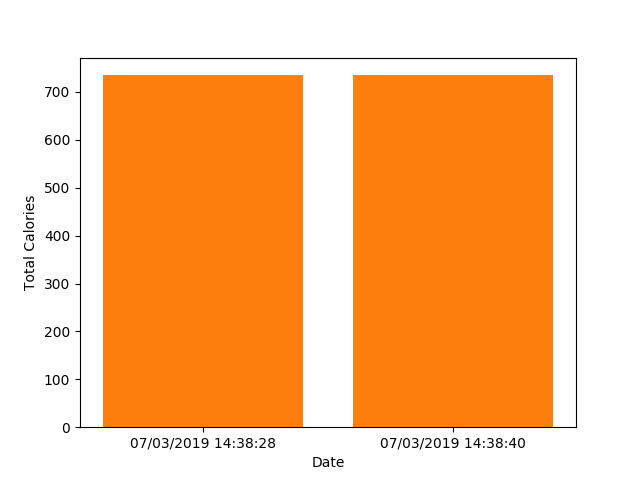
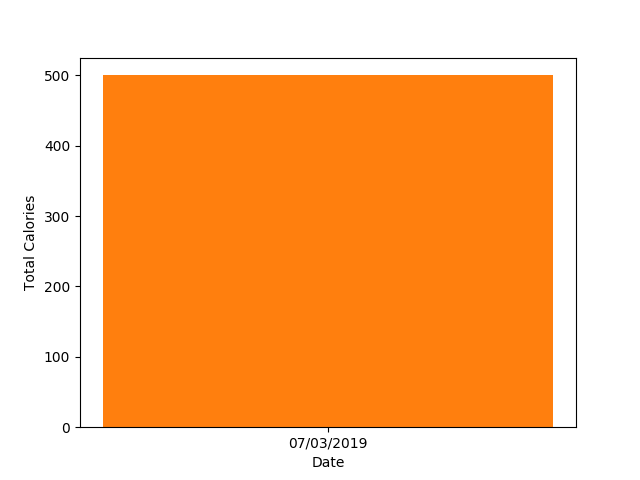
7/3/19 second commit of day, styled about, home, profile, and create profile

diff --git a/MEALBURNER/templates/mealburner_app/create_profile.html b/MEALBURNER/templates/mealburner_app/create_profile.html
@@ -12,7 +12,7 @@
             <br>
             <div class="form-group">
                 <label for="name">Username</label>
-                <input name="username" type="text" class="name_form form-control">
+                <input name="username" type="text" class="name_form form-control" placeholder='Ex: Jschmidt'>
             </div>
             <div class="form-group">
                 <label for="">First Name</label>
@@ -24,11 +24,11 @@
             </div>
             <div class="form-group">
                 <label for="">Weight</label>
-                <input name="weight" type="number" step="0.01" class="price_form form-control">
+                <input name="weight" type="number" step="0.01" class="price_form form-control" placeholder='Ex: 150'>
             </div>
             <div class='form-group'>
                 <label for=''>Height</label> 
-                <input name='height' type='number' step='0.01' class="price_form form-control">
+                <input name='height' type='number' step='0.01' class="price_form form-control" placeholder='Ex: 511'>
             </div>
             <div class="form-group">
                 <label for="">Age</label>
@@ -36,19 +36,19 @@
             </div>
             <div class="form-group">
                 <label for="">Activity Level</label>
-                <input name="activity_level" type="text" class='class_form form-control'>
+                <input name="activity_level" type="text" class='class_form form-control' placeholder='Ex: High'>
             </div>
             <div class='form-group'>
                 <label for="">Calorie Intake Goal</label>
-                <input name="calorie_intake_goal" type='number' step='0.01'class='price_form form-control'>
+                <input name="calorie_intake_goal" type='number' step='0.01'class='price_form form-control' placeholder='Ex: 2000'>
             </div>
             <div class='form-group'>
                 <label for="">Calories Burned Goal</label>
-                <input name="calorie_output_goal" type='number' step='0.01'class='price_form form-control'>
+                <input name="calorie_output_goal" type='number' step='0.01'class='price_form form-control' placeholder='Ex 500'>
             </div>
             <div class='form-group'>
                 <label for="">Regular Exercises</label>
-                <input name="regular_exercises" type='text' class='class_form form-control'>
+                <input name="regular_exercises" type='text' class='class_form form-control' placeholder='Ex: Weightlifting'>
             </div>
             <div class="form-group">
                 <label for="meal_type">meal type:</label>
@@ -65,7 +65,7 @@
                 <input name='password' type=password class='class_form form form-control'>
             </div>
             <div class="form-group">
-                <input type="submit" class="success_button btn btn-outline-success form_submit"href='http://127.0.0.1:8000/'>
+                <input type="submit" class="success_button btn btn-success form_submit"href='http://127.0.0.1:8000/'>
             </div>
         </form>
     </div>

diff --git a/MEALBURNER/templates/mealburner_app/about.html b/MEALBURNER/templates/mealburner_app/about.html
@@ -1,6 +1,60 @@
 {% extends 'base.html' %}
 {% block content %}
 
+<br>
+<br>
+<br>
+<h1 class='abt_title'> About Us </h1> 
+</div>
+<br>
+<br>
+
+<br>
+<br>
+
+<div id='home_background' class="my_jumbo jumbotron jumbotron-fluid">
+  <div  class="container">
+    <p> Lorem ipsum dolor sit amet, consectetur adipiscing elit. Nam libero est, consectetur at tincidunt nec, commodo eu erat. Donec volutpat id elit quis tristique. Donec id lectus nibh. Aenean quis gravida massa. Ut et sodales odio, non maximus eros. Vestibulum viverra ultricies justo ac vulputate. Fusce dignissim nisl nulla, et venenatis velit gravida bibendum. Proin in felis a arcu rhoncus ullamcorper. Vivamus fringilla tempor elit sed cursus. Nam hendrerit varius nulla facilisis laoreet. Nullam vehicula aliquet sodales. </p>
+    <p>Sed rhoncus mi vitae vestibulum gravida. Mauris posuere diam vitae aliquet ultricies. Nunc scelerisque aliquet nulla ut congue. Nam aliquet arcu et purus auctor, ut feugiat nisi faucibus. In maximus magna gravida, laoreet sapien at, consectetur lectus. Integer molestie tortor non eleifend laoreet. Mauris vitae mi at diam viverra hendrerit. Aenean mollis rutrum imperdiet. Nulla eget magna molestie, pellentesque nunc id, malesuada odio. Nullam mattis gravida sem. Duis non nisl vitae ex vulputate facilisis. Curabitur vel lorem eget leo congue vehicula. Maecenas vel turpis et sapien volutpat posuere et eu odio. Sed sed maximus erat.</p>
+    
+  </div> 
+
+<div class="container mt-5 mb-5">
+        <h1 class="fred_link display-4">Links</h1>
+        <div class="row mt-4">
+            <div class="col-4">
+                <div class="card my_shadow" style="width: 18rem;">
+                    <div class="card-body">
+                        <h5 class="card-title">null</h5>
+                        <p class="fred_link card-text">null</p>
+                        <a target='blank'href='' class="btn btn-dark">null</a>
+                    </div>
+                </div>
+            </div>
+<br>
+            <div class="col-4">
+                <div class="card my_shadow" style="width: 18rem;">
+                    <div class="card-body">
+                        <h5 class="card-title">null</h5>
+                        <p class="card-text">null</p>
+                        <a target='blank'href="" class="btn btn-dark">null</a>
+                    </div>
+                </div>
+            </div>
+<br>
+            <div class="col-4">
+                <div class="card my_shadow" style="width: 18rem;">
+                    <div class="card-body">
+                        <h5 class="card-title">null</h5>
+                        <p class="card-text">null</p>
+                        <a target='blank'href="" class="btn btn-dark">null</a>
+                    </div>
+                </div>
+            </div>
+        </div>
+    </div>
+    </div>
+
 
 
 

diff --git a/MEALBURNER/templates/mealburner_app/profile_view.html b/MEALBURNER/templates/mealburner_app/profile_view.html
@@ -36,9 +36,6 @@
                             </ul>
                         </div>
                     </div>
-                    <div class="col-md-2">
-                        <input type="submit" class="profile-edit-btn" name="btnAddMore" value="Edit Profile"/>
-                    </div>
                 </div>
                 <div class="row">
                     <div class="col-md-4">
@@ -58,6 +55,7 @@
                     <div class="col-md-8">
                         <div class="tab-content profile-tab" id="myTabContent">
                             <div class="tab-pane fade show active" id="home" role="tabpanel" aria-labelledby="home-tab">
+                                        <br>
                                         <div class="row">
                                             <div class="col-md-6">
                                                 <label>Username</label>
@@ -100,9 +98,10 @@
                                         </div>
                             </div>
                             <div class="tab-pane fade" id="profile" role="tabpanel" aria-labelledby="profile-tab">
+                                        <br>
                                         <div class="row">
                                             <div class="col-md-6">
-                                                <label>Desired Amount of Calories Consumed</label>
+                                                <label>Daily Desired Amount of Calories Consumed</label>
                                             </div>
                                             <div class="col-md-6">
                                                 <p>{{ profile.calorie_intake_goal }} calories</p>
@@ -110,7 +109,7 @@
                                         </div>
                                         <div class="row">
                                             <div class="col-md-6">
-                                                <label>Desired Amount of Calories Burned</label>
+                                                <label>Daily Desired Amount of Calories Burned</label>
                                             </div>
                                             <div class="col-md-6">
                                                 <p>{{ profile.calorie_output_goal }} calories</p>
@@ -140,6 +139,6 @@
                 </div>
             </form>           
         </div>
-        <img style="width: 50%; height: 50%;" alt="Image description"src="{% static 'mealburner_app/graphs/cal_plot.png' %}"/>
+        
 
 {% endblock content %}

diff --git a/MEALBURNER/templates/partials/navbar.html b/MEALBURNER/templates/partials/navbar.html
@@ -23,7 +23,8 @@
         <div class="collapse navbar-collapse" id="navbarTogglerDemo03">
           <ul class="navbar-nav mr-auto mt-2 mt-lg-0">
             <li class='nav-item'>
-                <a class='nav-link' href="http://127.0.0.1:8000/">MEALBURNER<span class='sr-only'>(current)</span></a>
+                <a class='nav1 nav-link' href="http://127.0.0.1:8000/">MEALBURNER<span class='sr-only'>(current)</span></a>
+            </li>
             <li class="nav-item">
               <a class="nav-link" href="http://127.0.0.1:8000/">Home <span class="sr-only">(current)</span></a>
             </li>
@@ -35,10 +36,11 @@
               Manage Activity
             </a>
             <div class="dropdown-menu sm-menu">
-              <a class="dropdown-item" href={% url 'view_prof' user.id %}>View Profile</a>
-              <a class="dropdown-item" href={% url 'view' %}>View Daily Log</a>
-              <a class="dropdown-item" href={% url 'create_meal' %}>Add Meal</a>
-              <a class="dropdown-item" href={% url 'create_activity' %}>Create Activity</a>
+              <a class="drop1 dropdown-item" href={% url 'view_prof' user.id %}>View Profile</a>
+              <a class="drop2 dropdown-item" href={% url 'view' %}>View Daily Log</a>
+              <a class="drop3 dropdown-item" href={% url 'create_meal' %}>Add Meal</a>
+              <a class="drop4 dropdown-item" href={% url 'create_activity' %}>Create Activity</a>
+              <a class="drop5 dropdown-item" href={% url 'view_cal' %}>Visualize Caloric Intake</a>
             </div>
           </li>
           <li class="nav-item">
@@ -59,6 +61,9 @@
             <li class="nav-item">
             <li class="nav-item">
               <a class="nav-link" href="http://127.0.0.1:8000/">Home <span class="sr-only">(current)</span></a>
+            </li>
+            <li class='nav-item'>
+              <a class='nav-link' href={% url 'about' %}>About</a>
             </li>
             <li class="nav-item">
               <a class="nav-link" href={% url 'profile' %}>Create an Account</a>

diff --git a/MEALBURNER/templates/mealburner_app/home.html b/MEALBURNER/templates/mealburner_app/home.html
@@ -15,18 +15,22 @@
   <div class="site-wrapper-inner">
     <div class="cover-container">
 
-      <div class="inner cover">
+      <div class="innercover">
         <h1 class="cover-heading">MEALBURNER</h1>
-
+        <br>
         <p class="lead">
             
         {% if user.is_authenticated %}
-          Hello {{ user.username }}
+          <h3>Hello {{ user.username }}</h3>
+          <br>
+          <br>
           <a class="btn_back btn btn-dark" href="{% url 'logout' %}">Logout</a>
          
         {% else %}
-          <p>Welcome! Log in or Create an Account</p>
-         <a class="btn_back btn btn-dark" href="{% url 'login' %}">Login</a>
+          <h4>Welcome! Log in or Create an Account</h4>
+          <br>
+          <br>
+          <a class="btn_back btn btn-dark" href="{% url 'login' %}">Login</a>
           {{ form|crispy }}
         {% endif %}
             
@@ -35,7 +39,11 @@
         <p class="lead"><a class="btn btn-lg btn-info" href={% url 'about' %}>Learn
         more</a></p>
       </div>
-
+      <br>
+      <br>
+      <br>
+      <br>
+      <br>
       <div class="mastfoot">
         <div class="inner">
           <!-- Validation -->

diff --git a/MEALBURNER/mealburner_app/static/styles.css b/MEALBURNER/mealburner_app/static/styles.css
@@ -31,7 +31,7 @@ body {
   background-size: cover;
   
   height: 100%;
-  background-color: #060;
+  background-color: white;
   color: #fff;
   text-align: center;
   text-shadow: 0 1px 3px rgba(0,0,0,.5);
@@ -50,15 +50,47 @@ body {
 .site-wrapper-inner {
   display: table-cell;
   vertical-align: top;
+  
 }
 .cover-container {
   margin-right: auto;
   margin-left: auto;
-}
+  text-align: center;
 
+}
+.cover-heading{
+  font-size: 75px;
+  color: black;
+}
+.btn_back{
+  width:100px;
+  
+}
+.drop1{
+  color:black;
+}
+.nav1{
+  color: black;
+}
+.abt_title{
+  color: white;
+  margin-right: auto;
+  margin-left: auto;
+  text-align: center;
+  font-size: 80px;
+}
+.form-group{
+  color:white;
+}
+#header_port{
+  color: white;
+  font-size: 60px;
+  margin-left:73px;
+}
 /* Padding for spacing */
 .inner {
   padding: 30px;
+  
 }
 
 

diff --git a/MEALBURNER/static/styles.css b/MEALBURNER/static/styles.css
@@ -33,6 +33,7 @@ body {
   color: #fff;
   text-align: center;
   text-shadow: 0 1px 3px rgba(0,0,0,.5);
+  
  
 }
 
@@ -44,19 +45,23 @@ body {
   min-height: 100%;
   -webkit-box-shadow: inset 0 0 100px rgba(0,0,0,.5);
           box-shadow: inset 0 0 100px rgba(0,0,0,.5);
+  
 }
 .site-wrapper-inner {
   display: table-cell;
   vertical-align: top;
+  
 }
 .cover-container {
   margin-right: auto;
   margin-left: auto;
+
 }
 
 /* Padding for spacing */
 .inner {
   padding: 30px;
+  
 }
 
 
@@ -146,6 +151,7 @@ body {
   /* Start the vertical centering */
   .site-wrapper-inner {
     vertical-align: middle;
+    
   }
   /* Handle the widths */
   .masthead,
@@ -161,4 +167,8 @@ body {
   .cover-container {
     width: 700px;
   }
+}
+.home_title{
+  text-align: center;
+  margin-left: 1000px;
 }

diff --git a/MEALBURNER/mealburner_app/views.py b/MEALBURNER/mealburner_app/views.py
@@ -213,7 +213,7 @@ def cal_box(request):
     
     new_list = []
     for i in my_meals:
-        new_list.append(i.date.strftime('%m/%d/%Y %H:%M:%S')) 
+        new_list.append(i.date.strftime('%m/%d/%Y')) 
          
     print(new_list)
     
